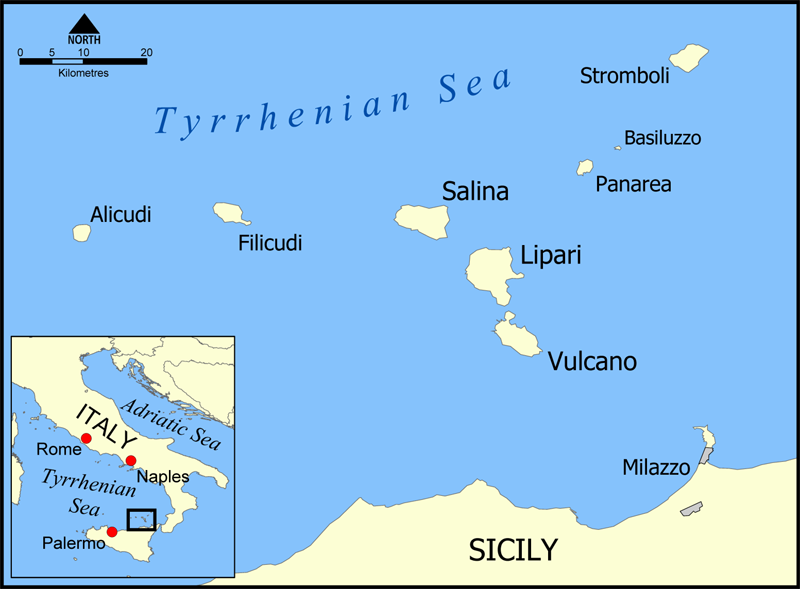
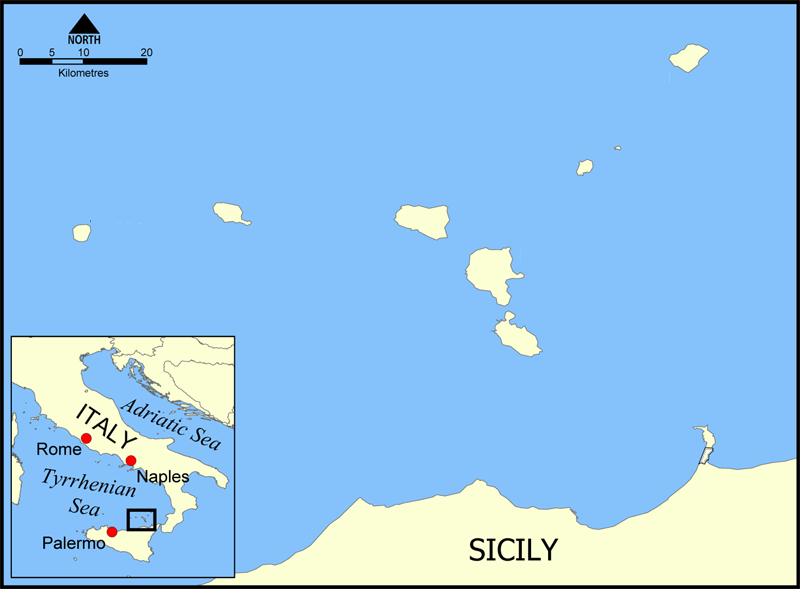
updates for routes

diff --git a/routes/index.md b/routes/index.md
@@ -12,6 +12,53 @@ header:
 </div>
 
 
+## Карта
+
+![Карта Эолийских островов](map-wth-names.png)
+
+## Маршруты
+
+### Классический — ~95 NM, 6 переходов
+
+Самый популярный маршрут: все главные острова по кругу. Хороший баланс ветра, достопримечательностей и ночной жизни. Подходит для первого знакомства с архипелагом.
+
+[Portorosa]({{ site.baseurl }}/portorosa/) → [Vulcano]({{ site.baseurl }}/vulcano/) *(19 NM)* → [Stromboli]({{ site.baseurl }}/stromboli/) *(25 NM)* → [Panarea]({{ site.baseurl }}/panarea/) *(10 NM)* → [Salina]({{ site.baseurl }}/salina/) *(13 NM)* → [Lipari]({{ site.baseurl }}/lipari/) *(11 NM)* → [Portorosa]({{ site.baseurl }}/portorosa/) *(22 NM)*
+
+---
+
+### Сбалансированный — ~90 NM, 6 переходов
+
+Немного гонок и много впечатлений. Заход в **[Milazzo]({{ site.baseurl }}/milazzo/)** для закупок и осмотра замка.
+
+[Portorosa]({{ site.baseurl }}/portorosa/) → [Vulcano]({{ site.baseurl }}/vulcano/) *(19 NM)* → [Salina]({{ site.baseurl }}/salina/) *(15 NM)* → [Stromboli]({{ site.baseurl }}/stromboli/) *(21 NM)* → [Lipari]({{ site.baseurl }}/lipari/) *(22 NM)* → [Milazzo]({{ site.baseurl }}/milazzo/) *(20 NM)* → [Portorosa]({{ site.baseurl }}/portorosa/) *(8 NM)*
+
+---
+
+### Посмотреть всё — ~100 NM, 6 переходов
+
+Маршрут без гонок, только впечатления. Все семь островов за неделю — короткие переходы, максимум времени на берегу.
+
+[Portorosa]({{ site.baseurl }}/portorosa/) → [Vulcano]({{ site.baseurl }}/vulcano/) *(19 NM)* → [Lipari]({{ site.baseurl }}/lipari/) *(4 NM)* → [Stromboli]({{ site.baseurl }}/stromboli/) *(22 NM)* → [Panarea]({{ site.baseurl }}/panarea/) *(10 NM)* → [Salina]({{ site.baseurl }}/salina/) *(13 NM)* → [Portorosa]({{ site.baseurl }}/portorosa/) *(30 NM)*
+
+---
+
+### Культурный — ~105 NM, 6 переходов
+
+Впечатления и культура: винодельни **[Salina]({{ site.baseurl }}/salina/)**, замок и музей **[Lipari]({{ site.baseurl }}/lipari/)**, богемная **[Panarea]({{ site.baseurl }}/panarea/)**, замок **[Milazzo]({{ site.baseurl }}/milazzo/)** и парк Неброди из **[Capo d'Orlando]({{ site.baseurl }}/capo-d-orlando/)**.
+
+[Portorosa]({{ site.baseurl }}/portorosa/) → [Salina]({{ site.baseurl }}/salina/) *(30 NM)* → [Lipari]({{ site.baseurl }}/lipari/) *(11 NM)* → [Panarea]({{ site.baseurl }}/panarea/) *(11 NM)* → [Milazzo]({{ site.baseurl }}/milazzo/) *(25 NM)* → [Capo d'Orlando]({{ site.baseurl }}/capo-d-orlando/) *(20 NM)* → [Portorosa]({{ site.baseurl }}/portorosa/) *(12 NM)*
+
+---
+
+### Гоночный — ~105 NM, 6 переходов
+
+Максимум парусного спорта: длинные переходы, регатные акватории у каждого острова. Подходит для опытных экипажей.
+
+[Portorosa]({{ site.baseurl }}/portorosa/) → [Lipari]({{ site.baseurl }}/lipari/) *(22 NM)* → [Panarea]({{ site.baseurl }}/panarea/) *(11 NM)* → [Salina]({{ site.baseurl }}/salina/) *(13 NM)* → [Filicudi]({{ site.baseurl }}/filicudi/) *(11 NM)* → [Vulcano]({{ site.baseurl }}/vulcano/) *(20 NM)* → [Portorosa]({{ site.baseurl }}/portorosa/) *(19 NM)*
+  
+
+
+
 ## Рекомендуемые марины
 
 | Остров | Название | Тип |
@@ -24,21 +71,4 @@ header:
 | [**Panarea**]({{ site.baseurl }}/panarea/) | [Cala Junco]({{ site.baseurl }}/panarea/#cala-junco---якорь-юг) | Якорь |
 | [**Panarea**]({{ site.baseurl }}/panarea/) | [Pontile Iditella]({{ site.baseurl }}/panarea/#pontile-iditella---буи-восток) | Буи |
 | [**Stromboli**]({{ site.baseurl }}/stromboli/) | [Punta Lena]({{ site.baseurl }}/stromboli/#punta-lena---якорь-север) | Якорь |
-
-
-## Маршруты
-
-### Классический (сбалансированный)
-[Portorosa]({{ site.baseurl }}/portorosa/) → [Vulcano]({{ site.baseurl }}/vulcano/) → [Stromboli]({{ site.baseurl }}/stromboli/) → [Salina]({{ site.baseurl }}/salina/) → [Panarea]({{ site.baseurl }}/panarea/) → [Lipari]({{ site.baseurl }}/lipari/) → [Portorosa]({{ site.baseurl }}/portorosa/)
-
-
-### Посмотреть всё (без гонок)
-[Portorosa]({{ site.baseurl }}/portorosa/) → [Vulcano]({{ site.baseurl }}/vulcano/) → [Lipari]({{ site.baseurl }}/lipari/) → [Stromboli]({{ site.baseurl }}/stromboli/) → [Salina]({{ site.baseurl }}/salina/) → [Filicudi]({{ site.baseurl }}/filicudi/) → [Portorosa]({{ site.baseurl }}/portorosa/)
-
-### Культурный (без гонок)
-[Portorosa]({{ site.baseurl }}/portorosa/) → [Vulcano]({{ site.baseurl }}/vulcano/) → [Salina]({{ site.baseurl }}/salina/) → [Lipari]({{ site.baseurl }}/lipari/) → [Milazzo]({{ site.baseurl }}/milazzo/) → [Portorosa]({{ site.baseurl }}/portorosa/)
-
-### Гонки, только гонки
-[Portorosa]({{ site.baseurl }}/portorosa/) → [Lipari]({{ site.baseurl }}/lipari/) → [Panarea]({{ site.baseurl }}/panarea/) → [Salina]({{ site.baseurl }}/salina/) → [Filicudi]({{ site.baseurl }}/filicudi/) → [Vulcano]({{ site.baseurl }}/vulcano/) → [Portorosa]({{ site.baseurl }}/portorosa/)
-  
 

diff --git a/readme.md b/readme.md
@@ -6,12 +6,18 @@
 
 ---
 
+## Сицилия
+
+| Порт | Описание |
+|------|----------|
+| [Milazzo](https://true-while.github.io/lipari/milazzo/) | Главный порт на материке, стартовая точка чартеров |
+| [Portorosa](https://true-while.github.io/lipari/portorosa/) | Крупнейшая марина Сицилии, «ворота» к архипелагу |
+| [Capo d'Orlando](https://true-while.github.io/lipari/capo-d-orlando/) | Альтернативный старт, низкие цены, парк Неброди |
+
 ## Острова
 
 | Остров | Описание |
 |--------|----------|
-| [Milazzo](https://true-while.github.io/lipari/milazzo/) | Главный порт на материке, стартовая точка чартеров |
-| [Portorosa](https://true-while.github.io/lipari/portorosa/) | Крупнейшая марина Сицилии, «ворота» к архипелагу |
 | [Lipari](https://true-while.github.io/lipari/lipari/) | Крупнейший остров, лучшие марины и инфраструктура |
 | [Vulcano](https://true-while.github.io/lipari/vulcano/) | Вулкан, грязевые ванны, горячие источники |
 | [Salina](https://true-while.github.io/lipari/salina/) | Виноделие, природа, гастрономия |
